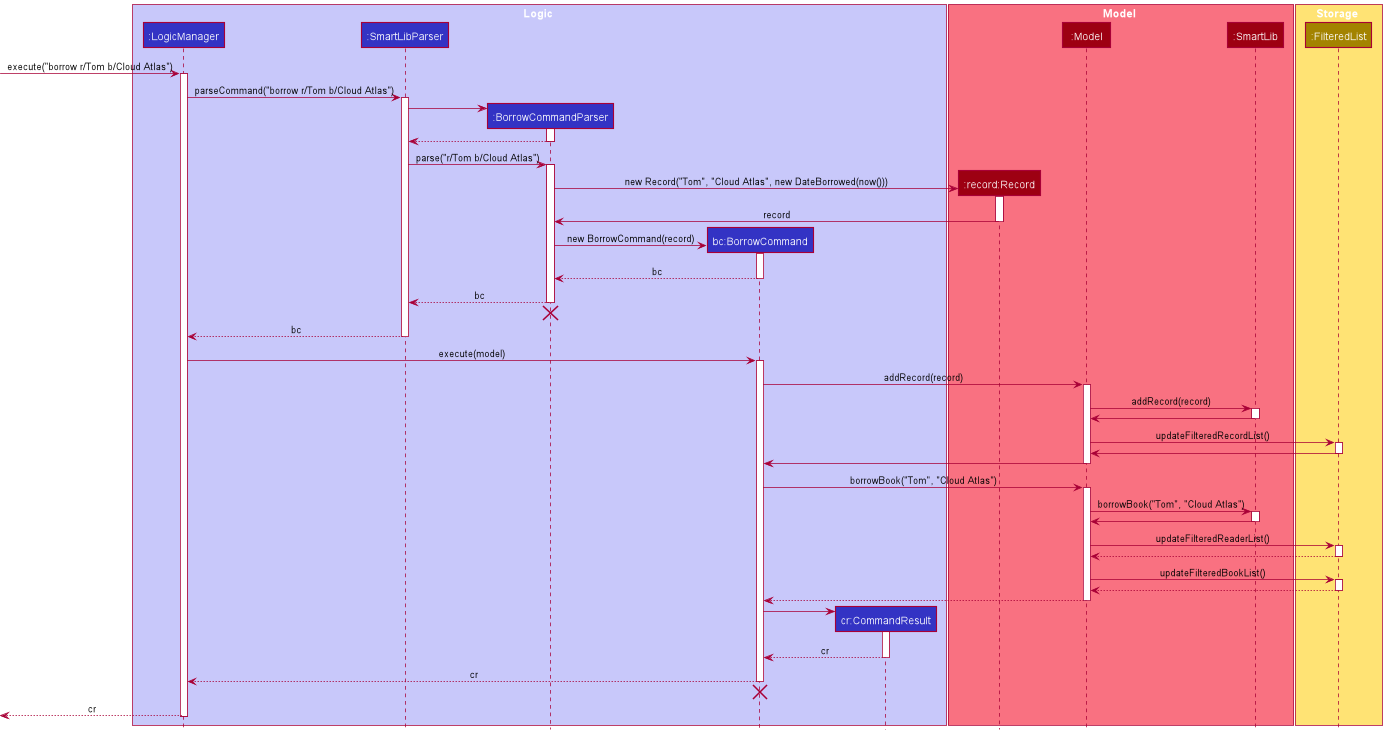
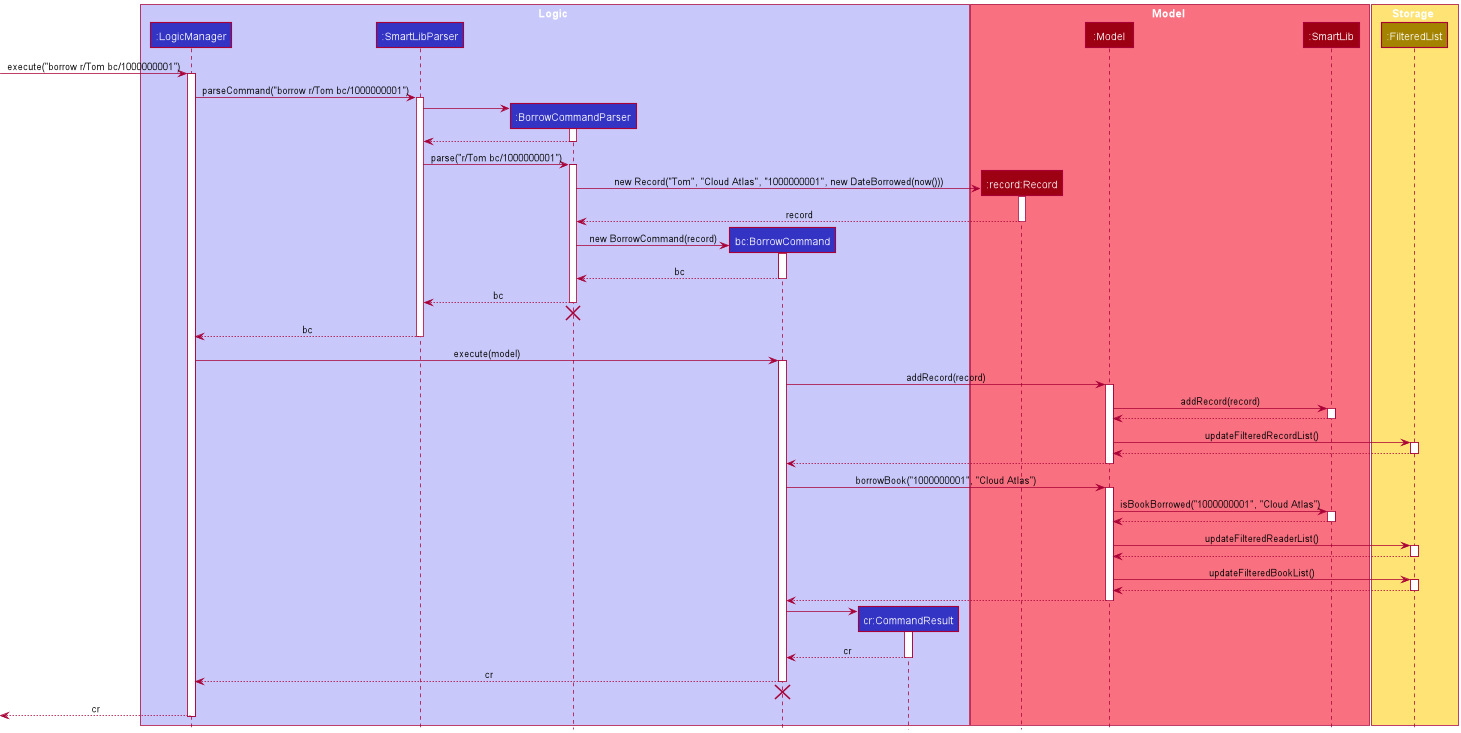
dg touch up

diff --git a/docs/DeveloperGuide.md b/docs/DeveloperGuide.md
@@ -332,10 +332,10 @@ borrower to the reader
 
 Given below is an example usage scenario of how the `borrow` mechanism behaves at each step. In our example and the
 diagrams below,
-we assume that the user input is `borrow r/Tom b/Cloud Atlas`:
+we assume that the user input is `borrow r/Tom bc/1000000001`:
 * Step 1: The user launches the SmartLib application with all of his/her readers already added to the reader list and
 books added to the book list.
-* Step 2: The user inputs `borrow r/Tom b/Cloud Atlas` to SmartLib, which calls upon `LogicManager#execute()`.
+* Step 2: The user inputs `borrow r/Tom bc/1000000001` to SmartLib, which calls upon `LogicManager#execute()`.
 * Step 3: `SmartLibParser` and `BorrowCommandParser` will check the user input, and return a `BorrowCommand` to
   the `LogicManager` if the input is valid.
 * Step 4: `LogicManager` will then call `BorrowCommand#execute()`, which in turn calls `Model#addRecord()` and
